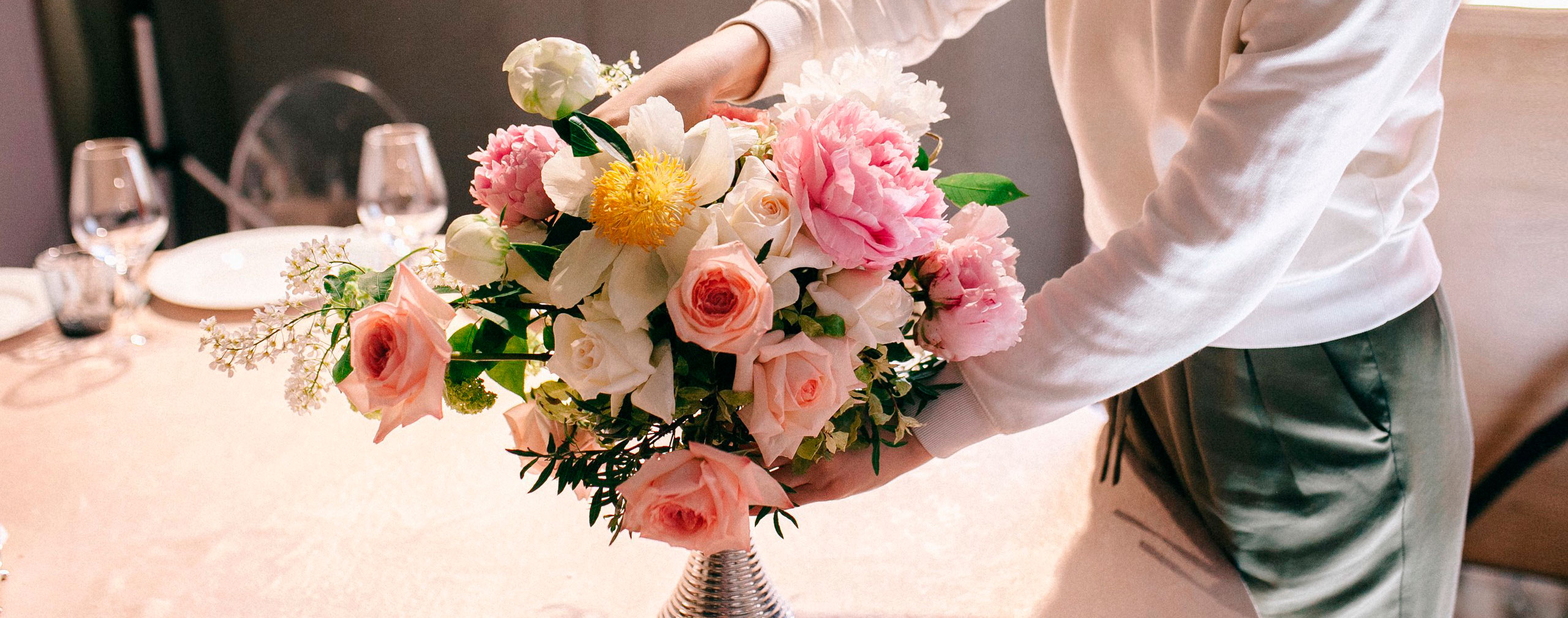
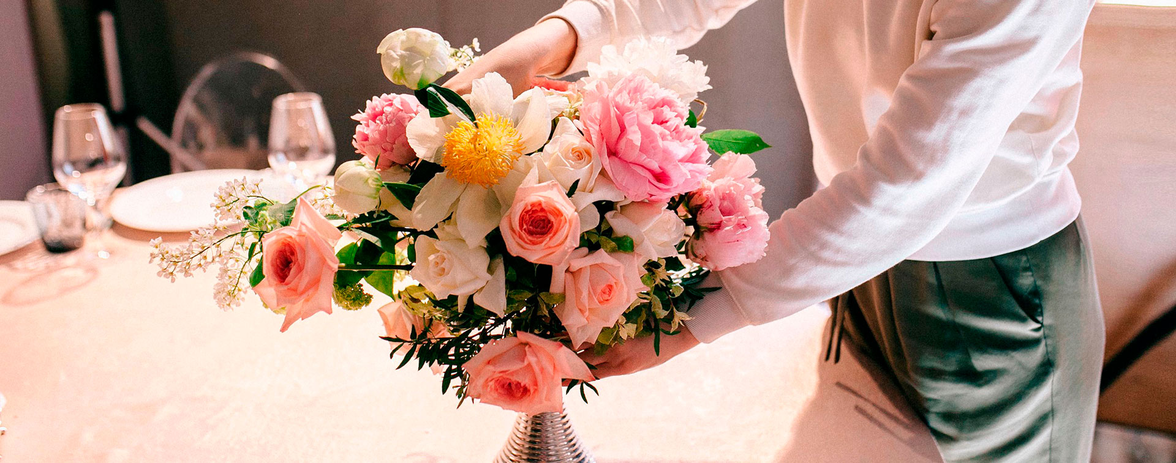
added slider

diff --git a/app/index.html b/app/index.html
@@ -4,7 +4,7 @@
 	<meta charset="UTF-8">
 	<meta name="viewport" content="width=device-width; initial-scale=1">
 	<meta http-equiv="X-UA-Compatible" content="ie=edge">
-	<title>Document</title>
+	<title>Kallyas Florist</title>
 	<link href="https://fonts.googleapis.com/css?family=Open+Sans:400,700,800|Playfair+Display:400,700i|Prata&display=swap&subset=cyrillic" rel="stylesheet">
 	<link rel="stylesheet" href="css/libs.min.css">
 	<link rel="stylesheet" href="css/style.min.css">
@@ -13,27 +13,29 @@
 	
 	<header class="header">
 		<div class="container">
-			<nav >
-				<ul class="header__nav">
-      
-					<li><a href="#">День рождения</a></li>
-					<li><a href="#">События</a></li>
-					<li><a href="#">Цветы</a></li>
-					<li><a href="#">Растения</a></li>
-					<li class="header__nav-logo"><a href="#"><img src="images/content/logo.png" alt=""></a></li>
-					<li><a href="#">Специальные</a></li>
-					<li><a href="#">Композиции</a></li>
-					<li><a href="#">Розы</a></li>
-				</ul>
-			</nav>
-
-			<div class="header__info">
-				<div class="header__info-slogan">
-					<h1>Цветы</h1>
-					Для особых случаев!
-				</div>
-				<div class="header__info-link">
-					<a href="#">Перейти в каталог</a>
+			<div class="header__wrapper">
+				<nav >
+					<ul class="header__nav">
+				      
+						<li><a href="#">День рождения</a></li>
+						<li><a href="#">События</a></li>
+						<li><a href="#">Цветы</a></li>
+						<li><a href="#">Растения</a></li>
+						<li class="header__nav-logo"><a href="#"><img src="images/content/logo.png" alt=""></a></li>
+						<li><a href="#">Специальные</a></li>
+						<li><a href="#">Композиции</a></li>
+						<li><a href="#">Розы</a></li>
+					</ul>
+				</nav>
+				
+				<div class="header__info">
+					<div class="header__info-slogan">
+						<h1>Цветы</h1>
+						Для особых случаев!
+					</div>
+					<div class="header__info-link">
+						<a href="#">Перейти в каталог</a>
+					</div>
 				</div>
 			</div>
 		</div>
@@ -41,14 +43,14 @@
 
 	<section class="slider">
 		<div class="slider__items">
-			<div class="slider-item">
-				<img src="images/slider/header-slider1.jpg" alt="">
+			<div class="slider-item" style="background-image: url(images/slider/header-slider1.jpg);">
+				
 			</div>
-			<div class="slider-item">
-				<img src="images/slider/header-slider2.jpg" alt="">
+			<div class="slider-item" style="background-image: url(images/slider/header-slider2.jpg);">
+				
 			</div>
-			<div class="slider-item">
-				<img src="images/slider/header-slider3.jpg" alt="">
+			<div class="slider-item" style="background-image: url(images/slider/header-slider3.jpg);">
+				
 			</div>
 		</div>
 	</section>

diff --git a/app/scss/style.scss b/app/scss/style.scss
@@ -22,19 +22,29 @@ li{
 	list-style: none;
 }
 //----------------Start Header-------------------------
+html{
+	position: relative;
+}
 .header{
-	background-color: #907d8e;
-	min-height: 756px;
+	background: rgba(144,145,142,0.4);
+	height: 100vh;
 	color: #fff;
+	position: absolute;
+	right: 0;
+	left: 0;
+	z-index: 1;
+
 }
 .header__nav{
 	display: flex;
 	justify-content: center;
 	align-items: center;
 	padding-top: 35px;
-	margin-bottom: 150px;
+	margin-bottom: 100px;
 	a{
 		color: #fff;
+		text-shadow: 1px 1px 3px #000;
+		text-transform: uppercase;
 		&:hover{
 			color: $green;
 		}
@@ -48,8 +58,13 @@ li{
 		
 	}
 }
+
 .header__info{
+	padding-top: 40px;
 	text-align: center;
+	background-image: url(../images/slider/slider-text-shadow.png);
+	background-repeat: no-repeat;
+	background-position: center 10px;
 	.header__info-slogan{
 		font-size: 60px;
 		margin-bottom: 35px;
@@ -61,6 +76,7 @@ li{
 		font-size: 88px;
 		line-height: 95px;
 		margin-bottom: 20px;
+		margin-top: 0;
 	}
 	.header__info-link a{
 		border: 1px solid #fff;
@@ -77,6 +93,61 @@ li{
 //----------------End Header-------------------------
 //----------------Start Slider-------------------------
 
+.slider{
+	width: 100%;
+	position: relative;
+}
+.slider-item{
+	background-size: cover;
+	background-position: center;
+	background-repeat: no-repeat;
+	height: 100vh;
+	
+}
+.slider__items{
+	.slick-arrow{
+		font-size: 0;
+		border: none;
+		border-radius: 50%;
+  		background-color: rgba(250, 250, 250,0.2);
+  		position: absolute;
+  		width: 69px;
+  		height: 69px;
+  		z-index: 5;
+  		cursor: pointer;
+	}
+	.slick-next {
+		top: 50%;
+		right: 42px;
+		outline: none;
+		
+		&::before{
+			background-image: url(../images/slider/button-next.png);
+			position: absolute;
+			content: "";
+			width: 13px;
+			height: 19px;
+			top: 50%;
+			left: 50%;
+			transform: translate(-50%,-50%);
+		}
+	}
+	.slick-prev{
+		top: 50%;
+		left: 42px;
+		outline: none;
+		&::before{
+			background-image: url(../images/slider/button-prev.png);
+			position: absolute;
+			content: "";
+			width: 13px;
+			height: 19px;
+			top: 50%;
+			left: 50%;
+			transform: translate(-50%,-50%);
+		}
+	}
+}
 
 
 //----------------End Slider-------------------------

diff --git a/app/js/main.js b/app/js/main.js
@@ -1,4 +1,8 @@
 $(function(){
 
-
+	$('.slider__items').slick({
+		fade: true,
+		autoplay: true,
+		autoplaySpeed: 5000
+	});
 });

diff --git a/app/scss/_global.scss b/app/scss/_global.scss
@@ -6,6 +6,7 @@ body{
 	font-weight: 400;
 	line-height: 20px;
 	color: $text;
+	overflow-x: hidden;
 }
 
 .container{
